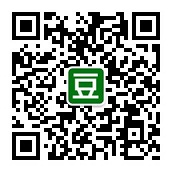
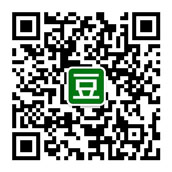
Change wechat account.

diff --git a/index.html b/index.html
@@ -5,24 +5,24 @@
 	<!-- Bootstrap -->
 	<meta name="viewport" content="width=device-width, initial-scale=1.0">
 	<meta content="关注豆瓣助手，速查豆瓣影音书信息！豆瓣，电影，音乐，读书。" name="description" />
-	<link rel="shortcut icon" href="http://nrfsf.com/dHelper/favicon.ico" type="image/vnd.microsoft.icon">
-    <link rel="icon" href="http://nrfsf.com/dHelper/favicon.ico" type="image/vnd.microsoft.icon">
+	<link rel="shortcut icon" href="http://dbcha.techotaku.net/favicon.ico" type="image/vnd.microsoft.icon">
+    <link rel="icon" href="http://dbcha.techotaku.net/favicon.ico" type="image/vnd.microsoft.icon">
     <link href="css/bootstrap.min.css" rel="stylesheet" media="screen">
 	<link href="css/bootstrap-responsive.min.css" rel="stylesheet" media="screen">
-    <title>微信豆瓣助手</title>
+    <title>微信：豆瓣查</title>
   </head>
   <body style="background-color: gray;">
     <div class="container" style="width:500px;height:640px;">
 	  <div style="height:50%;">&nbsp;</div>
       <div>
 	    <div style="float:left;">
-		  <img src="2dqrcode.jpg" class="img-rounded"  alt="微信豆瓣助手二维码" title="打开微信扫一扫！（id：dHelper）" />
+		  <img src="2dqrcode.jpg" class="img-rounded"  alt="微信公众帐号“豆瓣查”二维码" title="打开微信扫一扫！（id：doubancha）" />
 		</div>
 		
 		<div style="float:right;">
-		  <div style="clear:left;"><span class="label label-important"><h3>豆瓣助手&nbsp;-&nbsp;影音书速查！</h3></span></div>
+		  <div style="clear:left;"><span class="label label-important"><h3>豆瓣查&nbsp;&nbsp;-&nbsp;&nbsp;影音书速查！</h3></span></div>
 		  <div style="height:30px;clear:left;">&nbsp;</div>
-		  <div style="height:56px;clear:left;"><span class="label" style="font-size:medium;"><i class="icon-qrcode"></i>&nbsp;扫描左侧二维码关注豆瓣助手！</span></div>
+		  <div style="height:56px;clear:left;"><span class="label" style="font-size:medium;"><i class="icon-qrcode"></i>&nbsp;扫描左侧二维码关注豆瓣查！</span></div>
 		  <div style="clear:left;">
 		    <a href="http://movie.douban.com/" target="_blank" title="新窗口打开豆瓣电影"><span class="label label-inverse">&gt;豆瓣电影</span></a>&nbsp;&nbsp;&nbsp;
 		    <a href="http://music.douban.com/" target="_blank" title="新窗口打开豆瓣音乐"><span class="label label-inverse">&gt;豆瓣音乐</span></a>&nbsp;&nbsp;&nbsp;

diff --git a/README.md b/README.md
@@ -1,13 +1,12 @@
-dHelper
+微信：豆瓣查
 =======
 
-豆瓣微信助手：豆瓣影音书微信速查入口。  
-（也许升级为服务号会好一些……不过对于一个重度拖延症+单身宅来说找人帮忙照张手持身份证的照片是个挺艰巨的任务……我尽量早点搞定这个吧。）  
-（不过最扯淡的是……我当时申请这个公众账号的时候用的那个QQ貌似已经被回收了……我还是写信联系一下客服吧。）  
+豆瓣查：豆瓣影音书微信速查入口。  
+（拍了张手持身份证的照片……然后发现哦艹原来个人只能申请订阅号。）  
 
 ## 使用说明
 
-关注微信账号“dHelper”（或前往[此页面](http://www.nrfsf.com/dHelper/)扫描二维码），发送指令进行查询。
+关注微信账号“doubancha”（或前往[此页面](http://dbcha.techotaku.net/)扫描二维码），发送指令进行查询。
 
 指令说明：  
 
@@ -15,4 +14,8 @@
 
 可用类型包括：电影、f；音乐、m；图书、b。  
 如"电影 一代宗师"，"b 九州 天光云影"。  
+
+## 感谢
+
 本应用查询结果来自[豆瓣](http://www.douban.com)，感谢豆瓣网提供API服务。  
+感谢[zither](https://github.com/zither)封装的豆瓣SDK（[zither/simple-douban-oauth2](https://github.com/zither/simple-douban-oauth2)）。  
